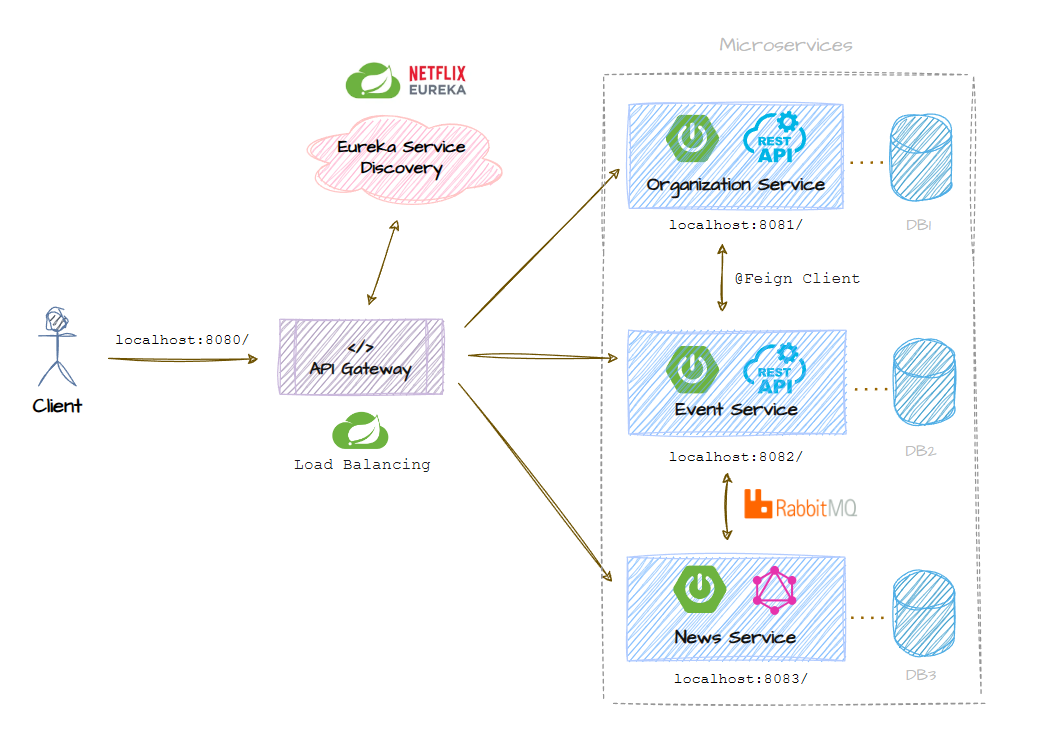
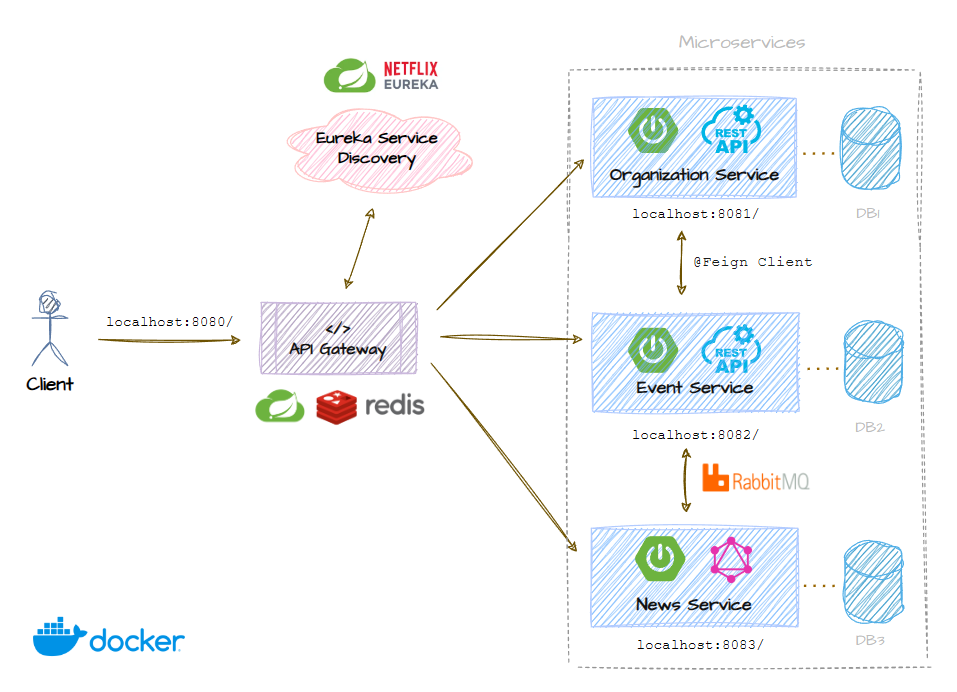
Update README files and diagram

diff --git a/api-gateway/README.md b/api-gateway/README.md
@@ -2,6 +2,25 @@
 
 | Service              | URL                                                   | Postman                                                                                                                                                                      |
 | -------------------- | ----------------------------------------------------- | ---------------------------------------------------------------------------------------------------------------------------------------------------------------------------- |
-| Organization Service | http://localhost:8080/organizations/organization/** | [Postman](https://www.postman.com/lunar-module-administrator-47202087/spring-microservices/folder/di6tce2/api-gateway?action=share&creator=16400698&ctx=documentation)       |
-| Event Service        | http://localhost:8080/events/event/**               | [Postman](https://www.postman.com/lunar-module-administrator-47202087/spring-microservices/folder/43hrjzz/api-gateway?action=share&creator=16400698&ctx=documentation)       |
-| News Service         | http://localhost:8080/news/graphql                    | [Postman](https://www.postman.com/lunar-module-administrator-47202087/spring-microservices/collection/67f7bc3b36f6188fc3186a73/spring-graphql?action=share&creator=16400698) |
+| Organization Service | http://localhost:8080/organizations/organization/** | [Test Link](https://www.postman.com/lunar-module-administrator-47202087/spring-microservices/folder/di6tce2/api-gateway?action=share&creator=16400698&ctx=documentation)       |
+| Event Service        | http://localhost:8080/events/event/**               | [Test Link](https://www.postman.com/lunar-module-administrator-47202087/spring-microservices/folder/43hrjzz/api-gateway?action=share&creator=16400698&ctx=documentation)       |
+| News Service         | http://localhost:8080/news/graphql                    | [Test Link](https://www.postman.com/lunar-module-administrator-47202087/spring-microservices/collection/67f7bc3b36f6188fc3186a73/spring-graphql?action=share&creator=16400698) |
+
+## Configuration Notes
+
+### 🖱 If running manually :
+
+- use docker to run **Redis**
+
+```
+docker run -p 6379:6379 — name redis -d redis
+```
+
+- use localhost in `application.yml`
+
+```
+  data:
+    redis:
+      host: localhost
+      port: 6379
+```

diff --git a/README.md b/README.md
@@ -2,7 +2,7 @@
 
 This project demonstrates a microservices architecture with the following components:
 
-- `api-gateway`: Central entry point using **Spring Cloud**, supports dynamic routing and load balancing
+- `api-gateway`: Central entry point using **Spring Cloud** and **Redis**, supports dynamic routing, load balancing and rate limiting
 - `eureka-server`: Service registry and discovery using **Netflix Eureka**
 - `organization-service`: Manages organizations, exposes REST endpoints, and is called via **FeignClient**
 - `event-service`: Manages events, communicates asynchronously via **RabbitMQ**
@@ -40,21 +40,21 @@ docker-compose up --build
 
 | Service          | URL                    |
 | ---------------- | ---------------------- |
-| Eureka Dashboard | http://localhost:8761  |
 | API Gateway      | http://localhost:8080  |
+| Eureka Dashboard | http://localhost:8761  |
 | RabbitMQ UI      | http://localhost:15672 |
 
 ## 🔁 Flow Overview
 
 1. All services register themselves with **Eureka**.
 
-2. `event-service` uses **FeignClient** to communicate with `organization-service` by service name.
+2. The `event-service` uses **FeignClient** to communicate with the `organization-service` by service name.
 
 3. When an event is created, a message is sent to **RabbitMQ**.
 
-4. `news-service` listens for incoming messages and creates a related news entry.
+4. The `news-service` listens for incoming messages and creates a related news entry.
 
-5. External requests go through the **API Gateway**, which handles routing and load balancing.
+5. External requests go through the **API Gateway**, which manages routing, load balancing, and rate limiting with **Redis**.
 
 ## 📄 License
 

diff --git a/news-service/README.md b/news-service/README.md
@@ -6,17 +6,9 @@ A Spring Boot application that demonstrates the use of GraphQL.
 
 ## Configuration Notes
 
-If using **Docker Compose**, use service names (not localhost) in `application.properties`
+### 🖱 If running manually :
 
-```
-eureka.client.service-url.defaultZone=http://eureka-server:8761/eureka/
-eureka.instance.hostname=news-service
-
-spring.rabbitmq.host=rabbitmq
-
-```
-
-If running manually, use localhost in `application.properties`
+- use localhost in `application.properties`
 
 ```
 eureka.client.service-url.defaultZone=http://localhost:8761/eureka/
@@ -26,11 +18,21 @@ spring.rabbitmq.host=localhost
 
 ```
 
-## GraphQL Playground
-
-Use this IDE to run queries, explore the schema, and test the GraphQL API.
+- use the GraphQL Playground to run queries, explore the schema, and test the GraphQL API.
 
 http://localhost:8083/graphiql
+
+### 🐳 If using Docker Compose :
+
+- use service names in `application.properties`
+
+```
+eureka.client.service-url.defaultZone=http://eureka-server:8761/eureka/
+eureka.instance.hostname=news-service
+
+spring.rabbitmq.host=rabbitmq
+
+```
 
 ## GraphQL Queries
 

diff --git a/event-service/README.md b/event-service/README.md
@@ -1,12 +1,14 @@
 ## Configuration Notes
 
-If running manually, use docker to run **RabbitMQ**
+### 🖱 If running manually :
+
+- use docker to run **RabbitMQ**
 
 ```
 docker run -d --name rabbitmq -p 5672:5672 -p 15672:15672 rabbitmq:3-management
 ```
 
-If running manually, use localhost in `application.properties`
+- use localhost in `application.properties`
 
 ```
 eureka.client.service-url.defaultZone=http://localhost:8761/eureka/
@@ -15,7 +17,9 @@ eureka.instance.hostname=localhost
 spring.rabbitmq.host=localhost
 ```
 
-If using **Docker Compose**, use service names (not localhost) in `application.properties`
+### 🐳 If using Docker Compose :
+
+- use service names (not localhost) in `application.properties`
 
 ```
 eureka.client.service-url.defaultZone=http://eureka-server:8761/eureka/

diff --git a/organization-service/README.md b/organization-service/README.md
@@ -1,15 +1,19 @@
 ## Configuration Notes
 
-If using **Docker Compose**, use service names (not localhost) in `application.properties`
+### 🖱 If running manually :
 
-```
-eureka.client.service-url.defaultZone=http://eureka-server:8761/eureka/
-eureka.instance.hostname=organization-service
-```
-
-If running manually, use localhost in `application.properties`
+- use localhost in `application.properties`
 
 ```
 eureka.client.service-url.defaultZone=http://localhost:8761/eureka/
 eureka.instance.hostname=localhost
+```
+
+### 🐳 If using Docker Compose :
+
+- use service names in `application.properties`
+
+```
+eureka.client.service-url.defaultZone=http://eureka-server:8761/eureka/
+eureka.instance.hostname=organization-service
 ```
